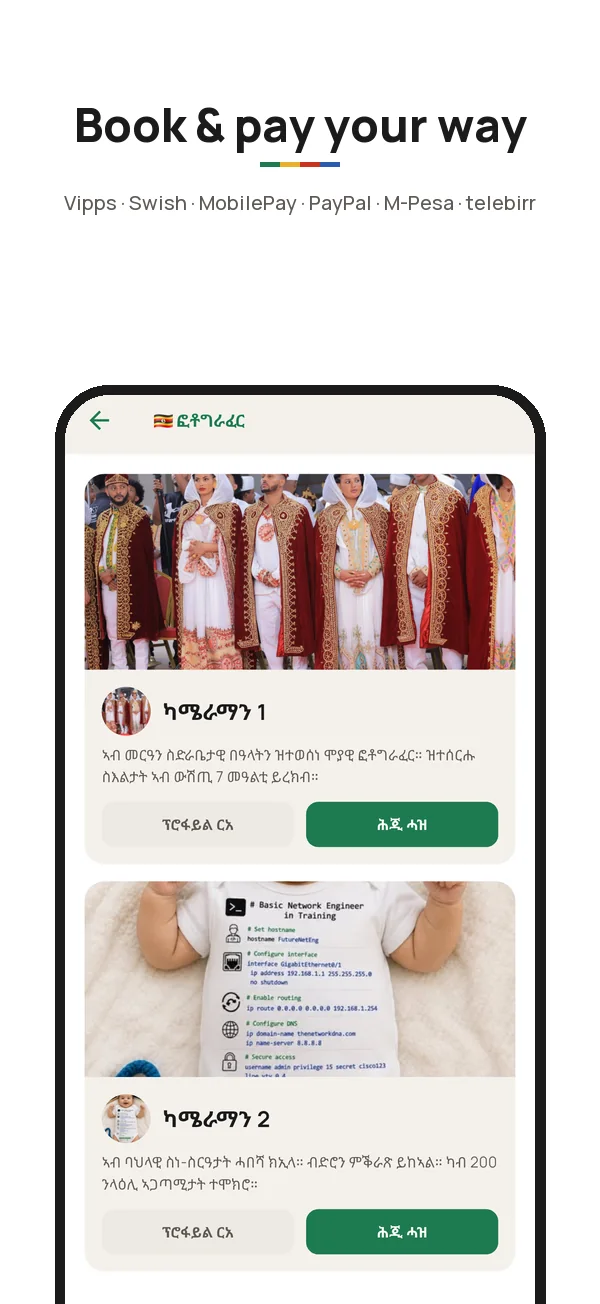
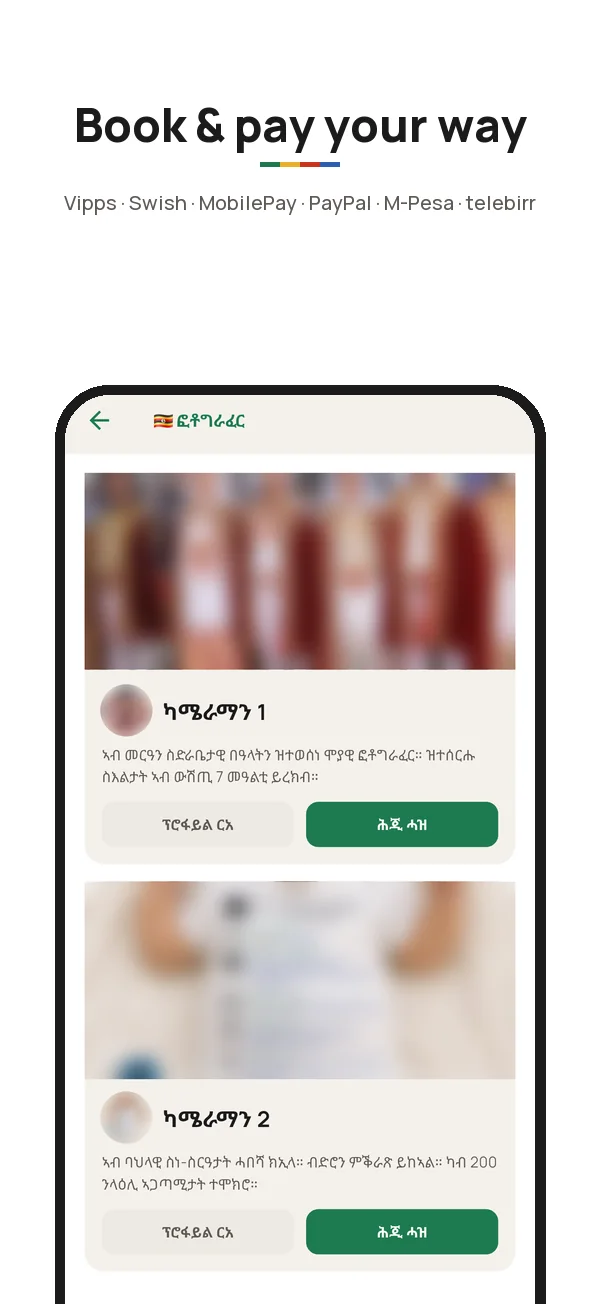
Website: blur the people in the photographers' photos (removed from Bunny at the owner's request)

diff --git a/public/index.html b/public/index.html
@@ -265,7 +265,7 @@ footer{border-top:1px solid var(--line);padding:46px 0 calc(40px + env(safe-area
       <div class="phone"><div class="screen" id="screen">
         <img src="/img/02_nearby.webp?v=2" alt="" class="on">
         <img src="/img/03_services.webp?v=2" alt="" loading="lazy">
-        <img src="/img/04_habtok.webp?v=2" alt="" loading="lazy">
+        <img src="/img/04_habtok.webp?v=3" alt="" loading="lazy">
         <img src="/img/07_market.webp?v=2" alt="" loading="lazy">
         <img src="/img/06_ai.webp?v=2" alt="" loading="lazy">
       </div></div>
@@ -338,8 +338,8 @@ footer{border-top:1px solid var(--line);padding:46px 0 calc(40px + env(safe-area
       <figure><img src="/img/01_community.webp?v=2" alt="" loading="lazy" width="230" height="500"><figcaption data-i18n="g1">Your language</figcaption></figure>
       <figure><img src="/img/02_nearby.webp?v=2" alt="" loading="lazy" width="230" height="500"><figcaption data-i18n="g2">Near you</figcaption></figure>
       <figure><img src="/img/03_services.webp?v=2" alt="" loading="lazy" width="230" height="500"><figcaption data-i18n="g3">Services</figcaption></figure>
-      <figure><img src="/img/04_habtok.webp?v=2" alt="" loading="lazy" width="230" height="500"><figcaption>Hab Tok</figcaption></figure>
-      <figure><img src="/img/05_booking.webp?v=2" alt="" loading="lazy" width="230" height="500"><figcaption data-i18n="g5">Easy booking</figcaption></figure>
+      <figure><img src="/img/04_habtok.webp?v=3" alt="" loading="lazy" width="230" height="500"><figcaption>Hab Tok</figcaption></figure>
+      <figure><img src="/img/05_booking.webp?v=3" alt="" loading="lazy" width="230" height="500"><figcaption data-i18n="g5">Easy booking</figcaption></figure>
       <figure><img src="/img/06_ai.webp?v=2" alt="" loading="lazy" width="230" height="500"><figcaption data-i18n="g6">AI assistant</figcaption></figure>
       <figure><img src="/img/07_market.webp?v=2" alt="" loading="lazy" width="230" height="500"><figcaption data-i18n="g7">Marketplace</figcaption></figure>
     </div>
